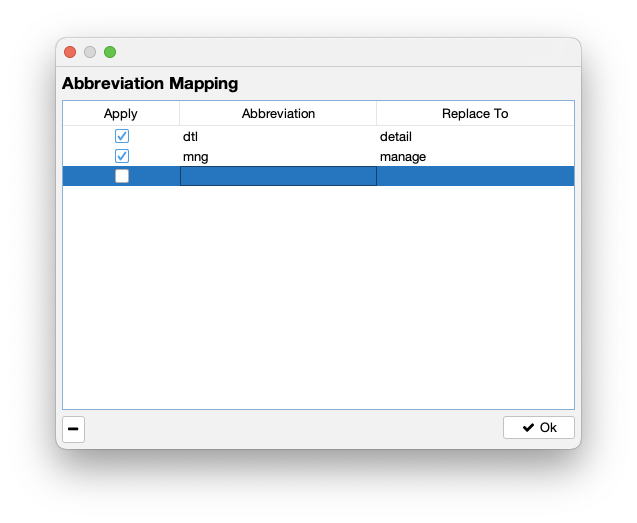
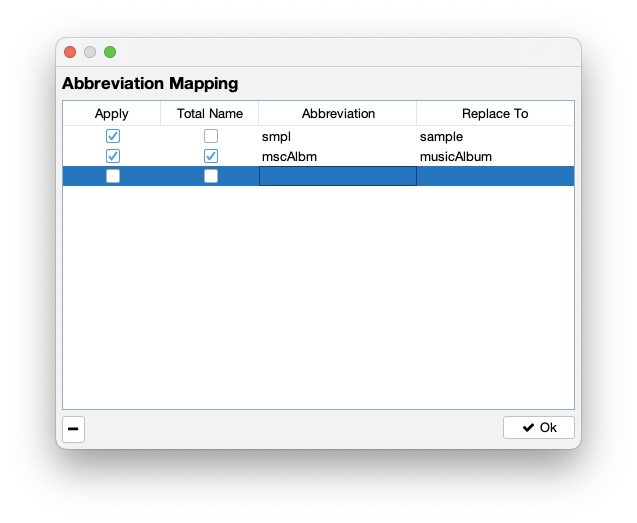
document updated about abbreviation

Changed region(s): [[0.2684, 0.1836, 0.5965, 0.3671], [0.5965, 0.1836, 0.8352, 0.3365], [0.1491, 0.1836, 0.2088, 0.3671]]

diff --git a/src/main/java/comart/tools/jdbgen/template/TemplateManager.java b/src/main/java/comart/tools/jdbgen/template/TemplateManager.java
@@ -723,7 +723,7 @@ public class TemplateManager {
                 }
             }
         } else {
-            throw new RuntimeException("contains/notcontains in if statement item must be a collection object or contain/notcontain value must be a ',' separated string.");
+            throw new RuntimeException("contains/notcontains in if statement item must be a collection object or a ',' separated string.");
         }
         return contains;
     }

diff --git a/docs/README.md b/docs/README.md
@@ -149,6 +149,7 @@ Generating text files using table information and templates.
 |Templates|Select template to be generated, click `Select` table header to select/deselect all template|
 |Output Directory|Output location of generated text/source files|
 |Author Name|Author text(`${author}` in template) which used in template.<br/>(ex. John Doe &lt;john.doe@abc.com&gt;)|
+|Abbreviation|Check if you want apply abbreviation replace to all items which has `.abbr` or not|
 |Custom Variables|User defined `item type` variables which used in templates.|
 |Dark UI|Change UI theme to dark/light.|
 |Generate|Start generate process, [Progress Window](#progress-window) will be shown.|
@@ -160,6 +161,8 @@ Generating text files using table information and templates.
 
 Manage abbreviation mapping rules.
 This abbreviation mapping will be applied in [`.abbr` decorator of `item` statement](#item-statement).
+
+If you check total name it will check and replace name itself not each words.
 
 
 ### Progress Window
